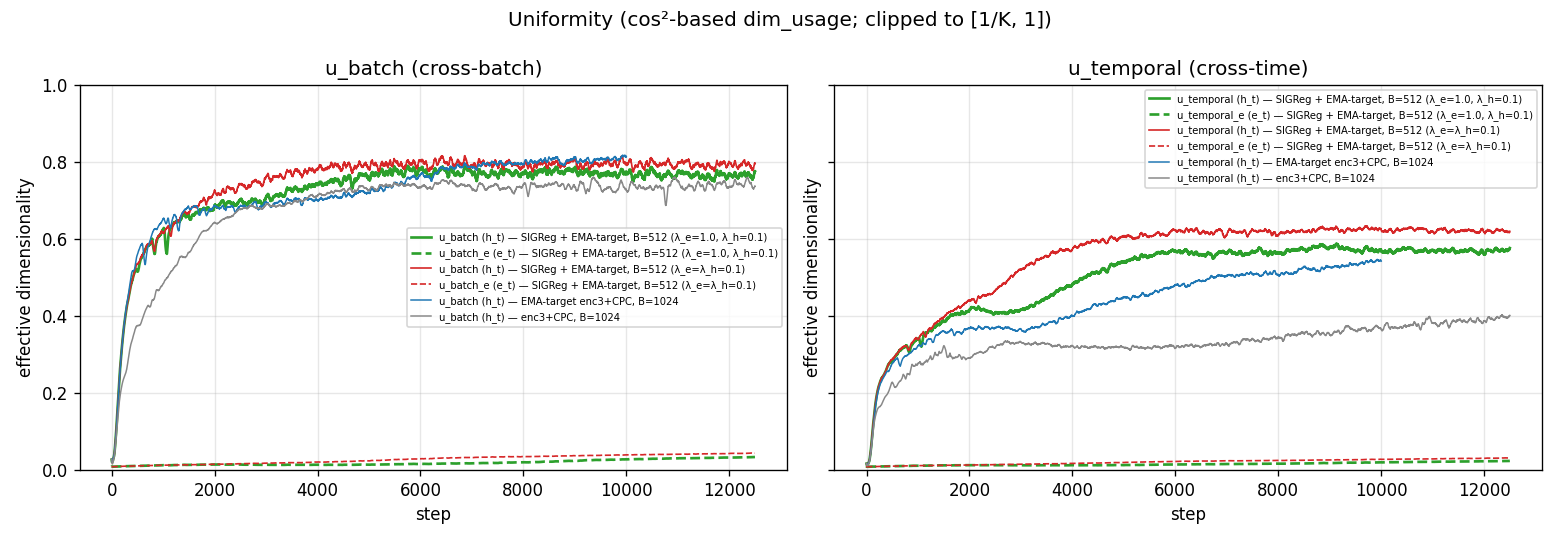
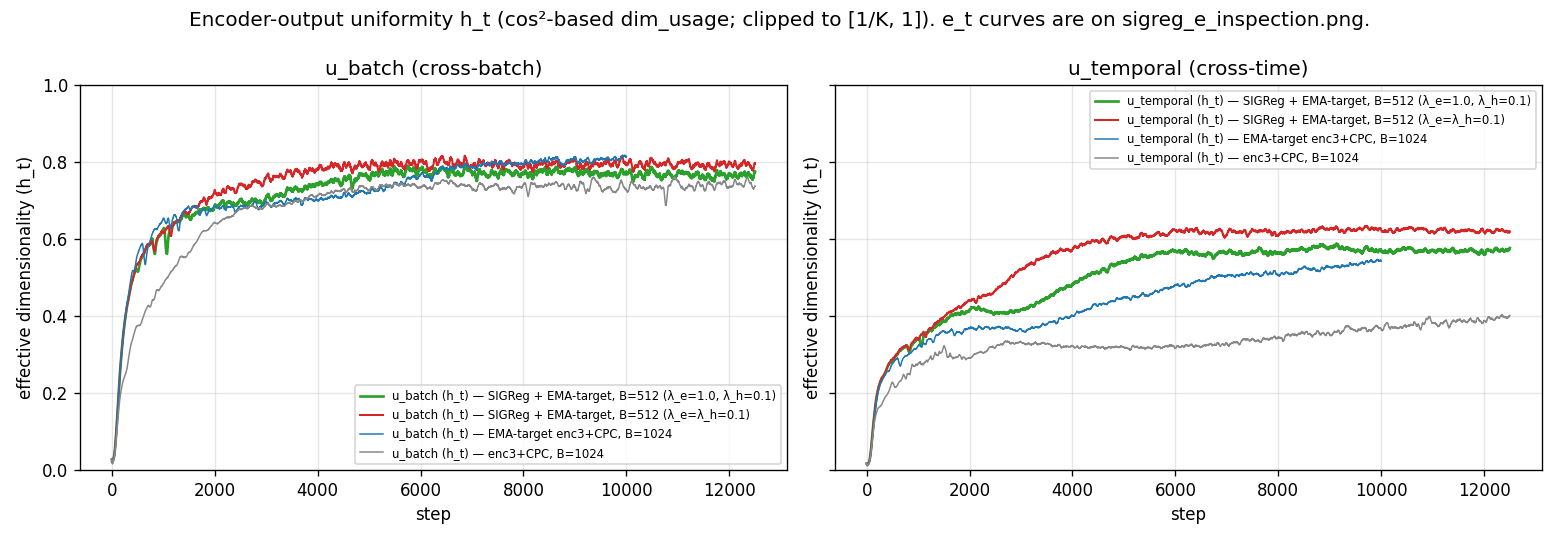
exp(#359): canonical report — Q1=NO, Q2=NO at α=0.05
Single-seed SIGReg embedding-side weight bump (λ_e: 0.1 → 1.0, λ_h
unchanged at 0.1). Q1: u_batch_e moved TOWARD 1/K (16.8× → 13.0×);
u_temporal_e, u_batch, u_temporal also fell. Q2: 4/4 paired-bootstrap
CIs include zero, P(Δ<0) in [0.83, 0.95].

Also fixes two P3 plot legibility issues: uniformity.png drops the
dashed e_t curves crushed at the [0,1] baseline (e_t data is on
sigreg_e_inspection.png's log panels), and gm_rel_mase.png drops the
axhline(1.0) that fell outside the [1.11, 1.22] auto-fit window.

diff --git a/reports/2026-06-22_lejepa_sigreg_emb10/scripts/build_report.py b/reports/2026-06-22_lejepa_sigreg_emb10/scripts/build_report.py
@@ -279,23 +279,19 @@ def plot_sigreg_inspection(sig10_csv: Path, sig01_csv: Path | None, out: Path):
 def plot_uniformity(
     sig10_csv: Path, sig01_csv: Path | None, ema_csv: Path | None, cpc_csv: Path | None, out: Path,
 ):
+    """h_t uniformity only — e_t curves are crushed at the [0, 1] baseline and
+    are already shown clearly on the log y-axis of sigreg_e_inspection.png."""
     s10 = pd.read_csv(sig10_csv)
     fig, axes = plt.subplots(1, 2, figsize=(13, 4.5), sharey=True)
     for ax, kind in zip(axes, ("batch", "temporal")):
         ax.plot(s10["step"], s10[f"u_{kind}"].rolling(50, min_periods=1).mean(),
                 label=f"u_{kind} (h_t) — {ARM_LABEL['sigreg10_enc3']}",
                 color=ARM_COLOR["sigreg10_enc3"], lw=1.6)
-        ax.plot(s10["step"], s10[f"u_{kind}_e"].rolling(50, min_periods=1).mean(),
-                label=f"u_{kind}_e (e_t) — {ARM_LABEL['sigreg10_enc3']}",
-                color=ARM_COLOR["sigreg10_enc3"], lw=1.6, ls="--")
         if sig01_csv and sig01_csv.exists():
             s01 = pd.read_csv(sig01_csv)
             ax.plot(s01["step"], s01[f"u_{kind}"].rolling(50, min_periods=1).mean(),
                     label=f"u_{kind} (h_t) — {ARM_LABEL['sigreg01_enc3']}",
-                    color=ARM_COLOR["sigreg01_enc3"], lw=1.0)
-            ax.plot(s01["step"], s01[f"u_{kind}_e"].rolling(50, min_periods=1).mean(),
-                    label=f"u_{kind}_e (e_t) — {ARM_LABEL['sigreg01_enc3']}",
-                    color=ARM_COLOR["sigreg01_enc3"], lw=1.0, ls="--")
+                    color=ARM_COLOR["sigreg01_enc3"], lw=1.2)
         for arm, csv_path in (("ema_enc3", ema_csv), ("cpc_enc3", cpc_csv)):
             if csv_path and csv_path.exists():
                 d = pd.read_csv(csv_path)
@@ -304,11 +300,12 @@ def plot_uniformity(
                             label=f"u_{kind} (h_t) — {ARM_LABEL[arm]}",
                             color=ARM_COLOR[arm], lw=0.9)
         ax.set_xlabel("step")
-        ax.set_ylabel("effective dimensionality")
+        ax.set_ylabel("effective dimensionality (h_t)")
         ax.set_title(f"u_{kind} ({'cross-batch' if kind=='batch' else 'cross-time'})")
         ax.set_ylim(0, 1)
-        ax.legend(fontsize=6); ax.grid(alpha=0.3)
-    fig.suptitle("Uniformity (cos²-based dim_usage; clipped to [1/K, 1])")
+        ax.legend(fontsize=7); ax.grid(alpha=0.3)
+    fig.suptitle("Encoder-output uniformity h_t (cos²-based dim_usage; clipped to [1/K, 1]). "
+                 "e_t curves are on sigreg_e_inspection.png.")
     fig.tight_layout(); fig.savefig(out, dpi=120); plt.close(fig)
 
 
@@ -376,7 +373,9 @@ def plot_gm_bars(rows: list[dict], ci_rows: list[dict], out: Path):
     ax.set_xticklabels([f"{h}/{c}" for h, c in cells])
     ax.set_ylabel("GM-Rel MASE (lower = better)")
     ax.set_title("GIFT-Eval full-97 GM-Rel MASE — head-matched (whiskers = paired bootstrap, B=10k)")
-    ax.axhline(1.0, color="k", lw=0.5, ls=":", alpha=0.5)
+    # axhline(1.0) (seasonal-naive parity) is dropped because the GM range is
+    # [1.14, 1.18] — including 1.0 would compress the bar differences; the
+    # metric's 1.0 = SN parity is defined in the report's vocabulary section.
     if vals_for_lim:
         lo = min(vals_for_lim) - 0.02
         hi = max(vals_for_lim) + 0.04

diff --git a/reports/2026-06-22_lejepa_sigreg_emb10/lejepa_sigreg_emb10.md b/reports/2026-06-22_lejepa_sigreg_emb10/lejepa_sigreg_emb10.md
@@ -1,0 +1,102 @@
+# LeJEPA SIGReg with embedding-side weight bumped 10×
+
+## Question
+
+Following the prior arm (SIGReg + EMA-target, B=512, `λ_e=λ_h=0.1`), where the embedding-side regulariser was effectively inert (`λ_e · L_SIGReg(e_t) / loss ≈ 2.4e-5`, `u_batch_e` finishing at ≈ 16.8 · 1/K):
+
+1. Does setting `λ_e=1.0` (`λ_h` unchanged at 0.1) move `u_batch_e` off the 1/K floor?
+2. Does it move GIFT-Eval full-97 GM-Rel MASE in the four (q-head depth, backbone checkpoint) cells, against the `λ_e=λ_h=0.1` arm with the same backbone, dataset, and seed?
+
+## Vocabulary
+
+| term | definition |
+| --- | --- |
+| `enc3` | 3-layer transformer encoder (hidden size `K`=384, 6 heads). |
+| `CPC` | InfoNCE auxiliary head on the encoder, `--cpc-infonce-weight 1.0`. |
+| **EMA-target** | exponential-moving-average teacher on the encoder + patch-embed, `--ema-tau 0.99`. |
+| `e_t` | output of the GRU patch-embed, per (batch, time, channel) position; `K`=384. |
+| `h_t` | output of the 3-layer transformer encoder (`original_latent`), same shape. |
+| **SIGReg** | LeJEPA spherical regulariser. Epps–Pulley test statistic averaged over `M`=1024 random unit-direction 1-D projections of the pooled latent, trapezoidal-integrated on `[−6/√K, 6/√K]` against `N(0, 1/K)`. Drives the pooled marginal toward `Unif(S^{K-1})`. Two terms: `L_SIGReg(e_t)` weighted by `λ_e`, `L_SIGReg(h_t)` weighted by `λ_h`; both pre-`F.normalize` (`--sigreg-post-normalization` OFF). |
+| `u_batch` | cross-batch dimensionality usage of `h_t`, clipped to `[1/K, 1]`. `1/K` ≈ 0.00260 = one direction; 1 = uniform sphere coverage. `u_batch_e` is the same statistic on `e_t`. |
+| `u_temporal` | cross-time analogue of `u_batch`; `u_temporal_e` is the `e_t` version. |
+| **GM-Rel MASE** | GIFT-Eval full-97 aggregate: geometric mean over 97 configs of (model MASE ÷ seasonal-naive MASE). Lower = better; 1.0 = seasonal-naive parity. |
+| **paired bootstrap** | resample the 97 per-config rel-MASE values with replacement (B=10 000 draws), recompute the difference `mean(log(GM_A) − log(GM_B))`, take its 2.5/97.5 quantiles, convert back to absolute GM-Rel MASE scale via `GM_B · (exp(quantile) − 1)`. The reported CI on `Δ_GM` is on that absolute scale. |
+
+## Result
+
+**Q1: NO.** Under the 10× embedding-side weight bump, the tail-50 mean of `u_batch_e` fell from 0.0438 (≈ 16.8 · 1/K) to 0.0339 (≈ 13.0 · 1/K) — toward the 1/K floor, not away. `u_temporal_e`, `u_batch`, and `u_temporal` also fell. The 10× `λ_e` bump translated to only a ~7.6× increase in the `λ_e · L_SIGReg(e_t) / loss` fraction (`2.36e-5 → 1.80e-4`), while `L_SIGReg(e_t)` itself fell `1.00e-3 → 8.18e-4` (tail-50 means).
+
+**Q2: NO at α=0.05.** Point Δ_GM = #359 − #355 is negative in all 4 cells (range `[−0.014, −0.007]`); all 4 paired-bootstrap 95% CIs include zero (P(Δ<0) range `[0.83, 0.95]`).
+
+**Caveat: single seed (20260520).** Both arms ran one seed each. The four reported CIs are over the 97 per-config rel-MASE values within each seed, not over independent seeds; they do not bound seed-to-seed variance.
+
+![GIFT-Eval full-97 GM-Rel MASE, 4 (head-depth, backbone-checkpoint) cells × 4 arms; whiskers on the λ_e=1.0 bars = paired-bootstrap 95% CI vs the λ_e=0.1 arm; dashed tick at each cell = the λ_e=0.1 anchor.](plots/gm_rel_mase.png)
+
+![Per-config rel-MASE deltas (#359 − #355) across the 97 GIFT-Eval configs (green scatter, per panel = (head, ckpt)); black diamond = absolute Δ_GM with paired-bootstrap 95% CI on the log-ratio of GMs.](plots/per_config_delta.png)
+
+![Embedding-side SIGReg trajectories on log y-axis: L_SIGReg(e_t), L_SIGReg(h_t), u_batch (e_t), u_temporal (e_t) for λ_e=1.0 (#359, green) vs λ_e=0.1 (#355, red); dotted line at 1/K = 1/384 ≈ 0.00260.](plots/sigreg_e_inspection.png)
+
+![Per-domain GM relative MASE on GIFT-Eval full-97 in 2×2 small-multiples (head ∈ {2L, 6L} × ckpt ∈ {best, last}); shaded radial band = per-domain bootstrap 95% CI for the λ_e=1.0 arm; ring at 1.0 = seasonal-naive.](plots/perdomain_radar.png)
+
+### GM table
+
+| head / ckpt | enc3+CPC, B=1024 | EMA-target enc3+CPC, B=1024 | SIGReg, B=512, `λ_e=λ_h=0.1` | SIGReg, B=512, `λ_e=1.0, λ_h=0.1` | Δ_GM (1.0 − 0.1) | 95% CI | P(Δ<0) |
+| --- | ---: | ---: | ---: | ---: | ---: | ---: | ---: |
+| 2L / best | 1.1846 | 1.1614 | 1.1610 | 1.1470 | −0.0139 | [−0.0333, +0.0018] | 0.953 |
+| 2L / last | 1.1531 | 1.1817 | 1.1758 | 1.1681 | −0.0077 | [−0.0195, +0.0037] | 0.904 |
+| 6L / best | 1.1584 | 1.1576 | 1.1543 | 1.1408 | −0.0135 | [−0.0336, +0.0033] | 0.933 |
+| 6L / last | 1.1436 | 1.1597 | 1.1556 | 1.1482 | −0.0074 | [−0.0239, +0.0068] | 0.830 |
+
+CI is paired bootstrap (B=10 000) on the log-ratio of GMs, converted to absolute GM-Rel MASE scale; `n`=97 paired per-config rel-MASE values per cell.
+
+### Encoder-output uniformity
+
+![Cross-batch (left) and cross-time (right) h_t uniformity over training, four arms overlaid.](plots/uniformity.png)
+
+### Training loss
+
+![Training loss, 50-step rolling mean, four arms overlaid.](plots/loss_curve.png)
+
+## Protocol
+
+One arm, seed `20260520`, 12 500 steps. Launcher: [`scripts/train_backbone_sigreg.sh`](scripts/train_backbone_sigreg.sh).
+
+Backbone: GRU patch-embed → 3-layer transformer encoder (`K`=384, 6 heads). The arm changes exactly one flag vs the `λ_e=λ_h=0.1` SIGReg arm (same B=512, same EMA-target enc3+CPC recipe):
+
+| flag | `λ_e=λ_h=0.1` arm | this arm |
+| --- | --- | --- |
+| `--sigreg-embedding-weight` | 0.1 (shared default) | 1.0 |
+| `--sigreg-encoding-weight` | 0.1 (shared default) | 0.1 |
+
+All other flags identical: `--batch-size 512`, `--sigreg-embedding --sigreg-encoding`, `--sigreg-n-chunk 2048`, `--sigreg-post-normalization` OFF, `--ema-embedding --ema-encoder --ema-tau 0.99`, `--cpc-infonce-weight 1.0`, `--encoder-dropkey 0.70`, `--mix-ratio 0.0078125`, `--sigreg-m 1024`, `--sigreg-t-knots 17`, same dataset (`gift-pretrain-full-4096` / `small_v1`), dtypes, and 12 500 steps.
+
+### Head-matched downstream
+
+Each backbone checkpoint (`best` = best train-loss, `last` = step 12 500) trains a 2-layer and a 6-layer quantile head, then evaluates on GIFT-Eval full-97 via `scripts/run_gift_eval_full.sh`. Per-cell summaries: `results/gift_eval_full_<tag>{,_last}_{2L,6L}/summary.txt`.
+
+## Annex
+
+### A. Plot provenance
+
+All plots embed this arm's training CSV `runs/bb_allt08_xftrip_nobn_enc3_emateach_sigreg_qk_aon_b512_cpc_emb10_losses.csv` (12 500 rows, seed `20260520`). The `λ_e=λ_h=0.1` overlay reads `reports/2026-06-20_lejepa_sigreg/runs/bb_allt08_xftrip_nobn_enc3_emateach_sigreg_qk_aon_b512_cpc_losses.csv` and the matching GIFT-Eval summary tree under that report's `results/`. The EMA-target and enc3+CPC overlays read each arm's published `losses.csv` and `summary.txt` at that arm's code revision; no fresh re-training was run for this report. Bootstrap CI cells in `results/bootstrap_ci.csv` (B=10 000, seed 20260622). Reference GM values transcribed as constants `REF_GM`, `EMA_GM`, `SIGREG01_GM` in [`scripts/build_report.py`](scripts/build_report.py). Colour mapping: grey = enc3+CPC B=1024, blue = EMA-target enc3+CPC B=1024, red = SIGReg `λ_e=λ_h=0.1` B=512, green = SIGReg `λ_e=1.0, λ_h=0.1` B=512.
+
+### B. Tail-50 trajectory means
+
+50-step rolling means over the last 50 of 12 500 training steps:
+
+| quantity | `λ_e=0.1` (#355) | `λ_e=1.0` (this arm) |
+| --- | ---: | ---: |
+| `u_batch_e` | 0.0438 (≈ 16.8 · 1/K) | 0.0339 (≈ 13.0 · 1/K) |
+| `u_temporal_e` | 0.0315 | 0.0238 |
+| `u_batch` (`h_t`) | 0.7964 | 0.7754 |
+| `u_temporal` (`h_t`) | 0.6194 | 0.5761 |
+| `L_SIGReg(e_t)` | 1.001e-3 | 8.184e-4 |
+| `L_SIGReg(h_t)` | 3.805e-4 | 6.513e-4 |
+| `λ_e · L_SIGReg(e_t) / loss` | 2.36e-5 | 1.80e-4 |
+| total `loss` | 4.2478 | 4.5490 |
+
+`1/K` = 1/384 ≈ 0.00260.
+
+### C. GIFT-Eval wrapper emits only GM-Rel MASE
+
+`scripts/run_gift_eval_full.sh` writes `Aggregate GM-Relative MASE (97 configs)` to each `summary.txt`. The per-config `all_results.csv` carries raw `MASE[0.5]`, `MAPE[0.5]`, and `mean_weighted_sum_quantile_loss`, but not the seasonal-naive denominators needed to form GM-MASE / GM-MAPE_SN / GM-CRPS_SN.
